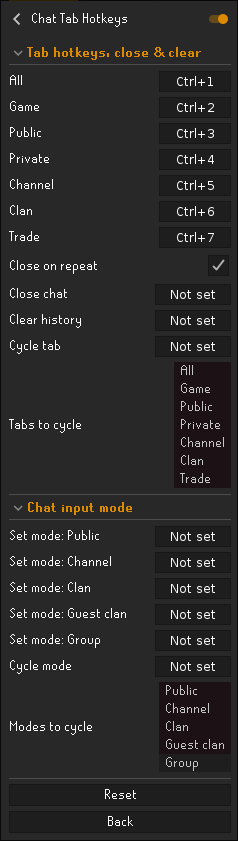
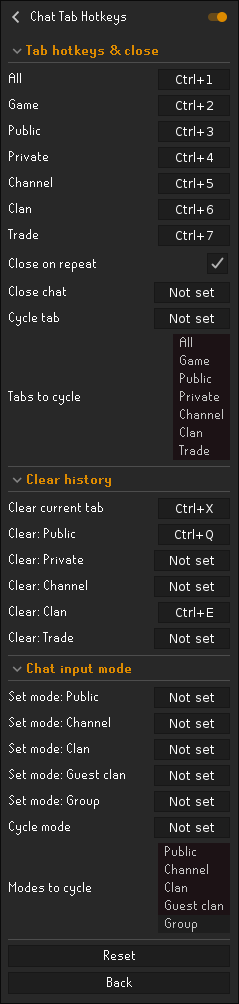
docs: update settings screenshot and spec checklist for per-tab clear

diff --git a/spec.md b/spec.md
@@ -102,11 +102,11 @@ dropdown lists (the RuneLite `Set<Enum>` widget, as used by World Hopper's filte
 
 ## Definition of done (v1)
 
-- [ ] 7 tab binds (default `Ctrl+1..7`) + 1 close bind + 1 clear-history bind (rest unbound), each working.
+- [ ] 7 tab binds (default `Ctrl+1..7`) + 1 close bind + a "Clear current tab" bind + 5 per-tab "Clear: X" binds (rest unbound), each working.
 - [ ] Same-tab-twice closes the chat when `closeOnRepeat` on; re-shows (no-op) when off.
 - [ ] Close bind toggles closed/open; reopens to the last tab.
 - [ ] Tab bind while chat closed opens it on that tab.
-- [ ] Clear history applies to the active tab; no-ops on tabs that don't offer it (Game/All).
+- [ ] "Clear current tab" applies to the active tab; the per-tab "Clear: X" binds clear their tab without switching to it; both no-op on tabs that don't offer it (Game/All).
 - [ ] Chat input mode binds set the channel you type into; Cycle mode steps through the selected modes.
 - [ ] Cycle tab steps through the selected tabs (wrapping); opens the chat on the next tab when collapsed; no-ops with an empty selection.
 - [ ] The "Tabs to cycle" / "Modes to cycle" lists actually narrow their respective cycles.